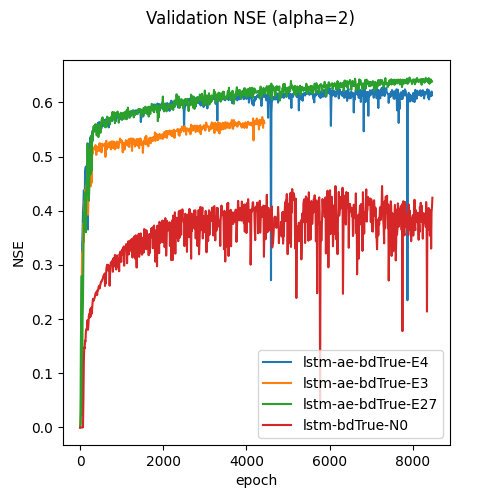
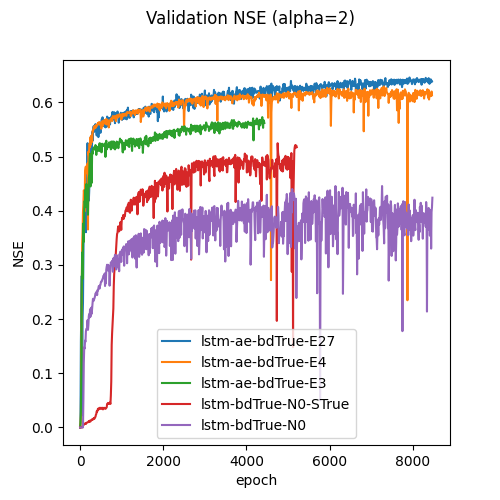
up

diff --git a/src/models.py b/src/models.py
@@ -2,7 +2,6 @@ import torch
 import pytorch_lightning as pl
 import torch.nn as nn
 import torch.optim as optim
-from utils import NSELoss
 from torch.optim.lr_scheduler import MultiStepLR
 
 ### Convolutional LSTM Autoencoder 
@@ -378,76 +377,76 @@ class Hydro_LSTM(pl.LightningModule):
         return optimizer #{"optimizer":optimizer, "lr_scheduler":lr_scheduler}
 
 
-class Hydro_FFNet(pl.LightningModule):
+# class Hydro_FFNet(pl.LightningModule):
 
-    def __init__(self, 
-                 n_inputs, 
-                 n_outputs, 
-                 hidden_layers, 
-                 drop_p = 0.5, 
-                 lr = 1e-4, 
-                 activation = nn.LeakyReLU,
-                 weight_decay = 0,
-                ):
-        """
-        Initialize a typical feedforward network with different hidden layers
-        The input is typically a mnist image, given as a torch tensor of size = (1,784),
-        or a sequence, torch.tensor of size (1, seq_length, 3)
-        Args:
-            n_inputs : input features
-            n_outputs : output features
-            hidden_layers : list of sizes of the hidden layers
-            drop_p : dropout probability
-            lr : learning rate
-            activation : activation function
-            weight_decay : l2 regularization constant
-        """
-        super().__init__()
-        # Parameters
-        self.n_inputs = n_inputs
-        self.n_outputs = n_outputs
-        self.hidden_layers = hidden_layers
-        self.num_hidden_layers = len(self.hidden_layers)
-        self.drop_p = drop_p
-        self.lr = lr
-        self.activation = activation
-        self.weight_decay = weight_decay
+#     def __init__(self, 
+#                  n_inputs, 
+#                  n_outputs, 
+#                  hidden_layers, 
+#                  drop_p = 0.5, 
+#                  lr = 1e-4, 
+#                  activation = nn.LeakyReLU,
+#                  weight_decay = 0,
+#                 ):
+#         """
+#         Initialize a typical feedforward network with different hidden layers
+#         The input is typically a mnist image, given as a torch tensor of size = (1,784),
+#         or a sequence, torch.tensor of size (1, seq_length, 3)
+#         Args:
+#             n_inputs : input features
+#             n_outputs : output features
+#             hidden_layers : list of sizes of the hidden layers
+#             drop_p : dropout probability
+#             lr : learning rate
+#             activation : activation function
+#             weight_decay : l2 regularization constant
+#         """
+#         super().__init__()
+#         # Parameters
+#         self.n_inputs = n_inputs
+#         self.n_outputs = n_outputs
+#         self.hidden_layers = hidden_layers
+#         self.num_hidden_layers = len(self.hidden_layers)
+#         self.drop_p = drop_p
+#         self.lr = lr
+#         self.activation = activation
+#         self.weight_decay = weight_decay
       
-        ### Network architecture
-        layers = []
+#         ### Network architecture
+#         layers = []
         
-        # input layer
-        layers.append(nn.Linear(self.n_inputs, self.hidden_layers[0]))
-        layers.append(nn.BatchNorm1d(self.hidden_layers[0]))
-        layers.append(nn.Dropout(self.drop_p, inplace = False))
-        layers.append(self.activation(inplace=True))
+#         # input layer
+#         layers.append(nn.Linear(self.n_inputs, self.hidden_layers[0]))
+#         layers.append(nn.BatchNorm1d(self.hidden_layers[0]))
+#         layers.append(nn.Dropout(self.drop_p, inplace = False))
+#         layers.append(self.activation(inplace=True))
         
-        # hidden layers
-        for l in range(self.num_hidden_layers-1):
-            layers.append(nn.Linear(self.hidden_layers[l], self.hidden_layers[l+1]))
-            layers.append(nn.BatchNorm1d(self.hidden_layers[l+1]))
-            layers.append(nn.Dropout(self.drop_p, inplace = False))
-            layers.append(self.activation(inplace=True))
+#         # hidden layers
+#         for l in range(self.num_hidden_layers-1):
+#             layers.append(nn.Linear(self.hidden_layers[l], self.hidden_layers[l+1]))
+#             layers.append(nn.BatchNorm1d(self.hidden_layers[l+1]))
+#             layers.append(nn.Dropout(self.drop_p, inplace = False))
+#             layers.append(self.activation(inplace=True))
         
-        # output layer
-        layers.append(nn.Linear(self.hidden_layers[-1], self.n_outputs))
+#         # output layer
+#         layers.append(nn.Linear(self.hidden_layers[-1], self.n_outputs))
         
-        self.layers = nn.ModuleList(layers)
+#         self.layers = nn.ModuleList(layers)
                           
-        print("Feedforward Network initialized")
+#         print("Feedforward Network initialized")
                   
 
-    def forward(self, x):
-        """
-        Input tensor of size (batch_size, features)
-        """
-        for l in range(len(self.layers)):
-            x = self.layers[l](x)
+#     def forward(self, x):
+#         """
+#         Input tensor of size (batch_size, features)
+#         """
+#         for l in range(len(self.layers)):
+#             x = self.layers[l](x)
 
-        return x
+#         return x
     
 
-    def configure_optimizers(self):
-        optimizer = optim.Adam(self.parameters(), lr = self.lr, weight_decay = self.weight_decay)
-        #lr_scheduler = MultiStepLR(optimizer, milestones=[300,], gamma=0.1)
-        return optimizer #{"optimizer":optimizer, "lr_scheduler":lr_scheduler}
+#     def configure_optimizers(self):
+#         optimizer = optim.Adam(self.parameters(), lr = self.lr, weight_decay = self.weight_decay)
+#         #lr_scheduler = MultiStepLR(optimizer, milestones=[300,], gamma=0.1)
+#         return optimizer #{"optimizer":optimizer, "lr_scheduler":lr_scheduler}

diff --git a/src/analysis_basins.py b/src/analysis_basins.py
@@ -1,31 +1,17 @@
 import numpy as np
 import pandas as pd
 import os
-import argparse
-from sklearn.manifold import TSNE
 import matplotlib.pyplot as plt
-from matplotlib.offsetbox import AnchoredText
 import datetime
-import seaborn as sns
-
-# pytorch
 import torch
-import torch.nn as nn
-from torch.utils.data import Dataset, DataLoader, random_split, ConcatDataset, Subset
-import pytorch_lightning as pl
-from pytorch_lightning import Trainer, seed_everything
-from pytorch_lightning.callbacks import ModelCheckpoint
-
-import torch.optim as optim
-from pytorch_lightning.callbacks.early_stopping import EarlyStopping 
-from torchvision import transforms, datasets
+from torch.utils.data import DataLoader, random_split
 import multiprocessing
 
 
 # user functions
 from dataset import CamelDataset
 from models import Hydro_LSTM_AE, Hydro_LSTM
-from utils import NSELoss, PFAB, Globally_Scale_Data
+from utils import NSELoss, PFAB, Globally_Scale_Data, find_best_epoch
 
 # def parse_args():
 #     parser=argparse.ArgumentParser(description="Take model id and best model epoch to analysis on test dataset")
@@ -94,12 +80,13 @@ if __name__ == '__main__':
     print("Indices for test dataset: ", split_indices)
 
     # load best model
-    model_ids = ["lstm-ae-bdTrue-E27","lstm-ae-bdTrue-E4", "lstm-ae-bdTrue-E3", "lstm-bdTrue-N0" ]
+    model_ids =["lstm-ae-bdTrue-E27","lstm-ae-bdTrue-E4", "lstm-ae-bdTrue-E3", "lstm-bdTrue-N0-STrue", "lstm-bdTrue-N0"]
     num_models = len(model_ids)
    
     start_date = datetime.datetime.strptime(dates[0], '%Y/%m/%d').date()
     # get data 
     x, y, statics = next(iter(test_dataloader))
+    
     x_unnorm = transform_input.reverse_transform(x.detach()).squeeze().numpy()
     # build figure
     length_to_plot = 730 # 2 years
@@ -145,24 +132,9 @@ if __name__ == '__main__':
 
     for count in range(num_models):
         model_id = model_ids[count]
-        dirpath = os.path.join("checkpoints", model_id)
-        path_metrics = os.path.join(dirpath, "metrics.pt")
-        data = torch.load(path_metrics, map_location=torch.device('cpu'))
-        epochs_mod = []
-        nse_mod = []
-        for key in data:
-            epoch_num = data[key]["epoch_num"]
-            nse = -data[key]["val_loss"]
-            if isinstance(epoch_num, int):
-                epochs_mod.append(epoch_num)
-                nse_mod.append(nse)
-            else:
-                epochs_mod.append(int(epoch_num.item()))
-                nse_mod.append(nse.item())
-        idx_ae = np.argmax(nse_mod)
-        best_epoch = epochs_mod[idx_ae]
-
+        best_epoch = find_best_epoch(model_id)
         # open best model
+        dirpath = os.path.join("checkpoints", model_id)
         filename = "model-epoch="+str(best_epoch)+".ckpt"
         path_best  = os.path.join(dirpath, filename)
         
@@ -175,6 +147,7 @@ if __name__ == '__main__':
 
         else:
             model = Hydro_LSTM.load_from_checkpoint(path_best)
+            print(model.statics)
             with torch.no_grad():
                 rec = model(y, statics)
 

diff --git a/src/LSTM_main.py b/src/LSTM_main.py
@@ -4,19 +4,17 @@ import argparse
 # pytorch
 import torch
 import torch.nn as nn
-from torch.utils.data import Dataset, DataLoader, random_split, ConcatDataset, Subset
+from torch.utils.data import DataLoader, random_split
 import pytorch_lightning as pl
-from pytorch_lightning import Trainer, seed_everything
 from pytorch_lightning.callbacks import ModelCheckpoint
 
-import torch.optim as optim
 from pytorch_lightning.callbacks.early_stopping import EarlyStopping 
 
 
 # user functions
 from dataset import CamelDataset
 from models import Hydro_LSTM
-from utils import Scale_Data, MetricsCallback, NSELoss
+from utils import MetricsCallback, NSELoss
 
 
 
@@ -86,8 +84,6 @@ if __name__ == '__main__':
     val_dataloader = DataLoader(val_dataset, batch_size=batch_size, num_workers=num_workers, shuffle=False)
     test_dataloader = DataLoader(test_dataset, batch_size=batch_size, num_workers=num_workers, shuffle=False)
 
-    x,y, stat = next(iter(test_dataloader))
-    
     ##########################################################
     # initialize the Hydro LSTM Auto Encoder
     ##########################################################

diff --git a/src/analysis_loss.py b/src/analysis_loss.py
@@ -1,34 +1,14 @@
 import numpy as np
 import matplotlib.pyplot as plt
-import pandas as pd
 import os
-import glob
-import re
-
-# pytorch
 import torch
-import torch.nn as nn
-from torch.utils.data import Dataset, DataLoader, random_split, ConcatDataset, Subset
-import pytorch_lightning as pl
-from pytorch_lightning import Trainer, seed_everything
-from pytorch_lightning.callbacks import ModelCheckpoint
-
-import torch.optim as optim
-from pytorch_lightning.callbacks.early_stopping import EarlyStopping 
-from torchvision import transforms, datasets
-
-# user functions
-from dataset import CamelDataset
-from models import Hydro_LSTM_AE
-from utils import Scale_Data, MetricsCallback, NSELoss
-
 
 
 if __name__ == '__main__':
 
     #####################################################################
     dir = "checkpoints"
-    models = ["lstm-ae-bdTrue-E4", "lstm-ae-bdTrue-E3", "lstm-ae-bdTrue-E27","lstm-bdTrue-N0" ]
+    models = ["lstm-ae-bdTrue-E27","lstm-ae-bdTrue-E4", "lstm-ae-bdTrue-E3", "lstm-bdTrue-N0-STrue", "lstm-bdTrue-N0"]
     epochs = []
     nse = []
     fig, ax = plt.subplots(1,1,figsize=(5,5))

diff --git a/src/LSTM_AE_main.py b/src/LSTM_AE_main.py
@@ -6,21 +6,17 @@ import argparse
 # pytorch
 import torch
 import torch.nn as nn
-from torch.utils.data import Dataset, DataLoader, random_split, ConcatDataset, Subset
+from torch.utils.data import DataLoader, random_split
 import pytorch_lightning as pl
-from pytorch_lightning import Trainer, seed_everything
 from pytorch_lightning.callbacks import ModelCheckpoint
-
-import torch.optim as optim
 from pytorch_lightning.callbacks.early_stopping import EarlyStopping 
-from torchvision import transforms, datasets
 import multiprocessing
 
 
 # user functions
 from dataset import CamelDataset
 from models import Hydro_LSTM_AE
-from utils import Scale_Data, MetricsCallback, NSELoss
+from utils import MetricsCallback, NSELoss
 
 
 def parse_args():

diff --git a/src/extract_features.py b/src/extract_features.py
@@ -122,7 +122,7 @@ if __name__ == '__main__':
     ax.set_axis_off()
     countries[countries["name"] == "United States of America"].plot(color="lightgrey", ax=ax)
     im = ax.scatter(x=lon, y=lat,c=nse, cmap="YlOrRd", s=1)
-    fig.colorbar(im, ax=ax, fraction=0.028, pad=0.02, location="bottom")
+    fig.colorbar(im, ax=ax, fraction=0.028, pad=0.02, location="bottom", vmin=-0.5, vmax=1.0)
     
     save_file = "plot_NSEmap_"+model_id+".png"
     fig.savefig(save_file)

diff --git a/src/dataset.py b/src/dataset.py
@@ -9,9 +9,8 @@ import os
 import datetime
 
 import torch
-import torch.nn as nn
 from torch.utils.data import Dataset
-from utils import Scale_Data, Globally_Scale_Data
+from utils import Globally_Scale_Data
 
 
 

diff --git a/src/analysis_id.py b/src/analysis_id.py
@@ -2,7 +2,6 @@ import numpy as np
 import pandas as pd
 import matplotlib.pyplot as plt
 import seaborn as sns
-from matplotlib.gridspec import GridSpec
 from dadapy import data
 
 S = np.loadtxt("statics.txt")

diff --git a/src/analyse_features.py b/src/analyse_features.py
@@ -2,7 +2,7 @@ import numpy as np
 import pandas as pd
 import geopandas as gpd
 import matplotlib.pyplot as plt
-from mpl_toolkits.axes_grid1.inset_locator import InsetPosition
+
 
 
 
